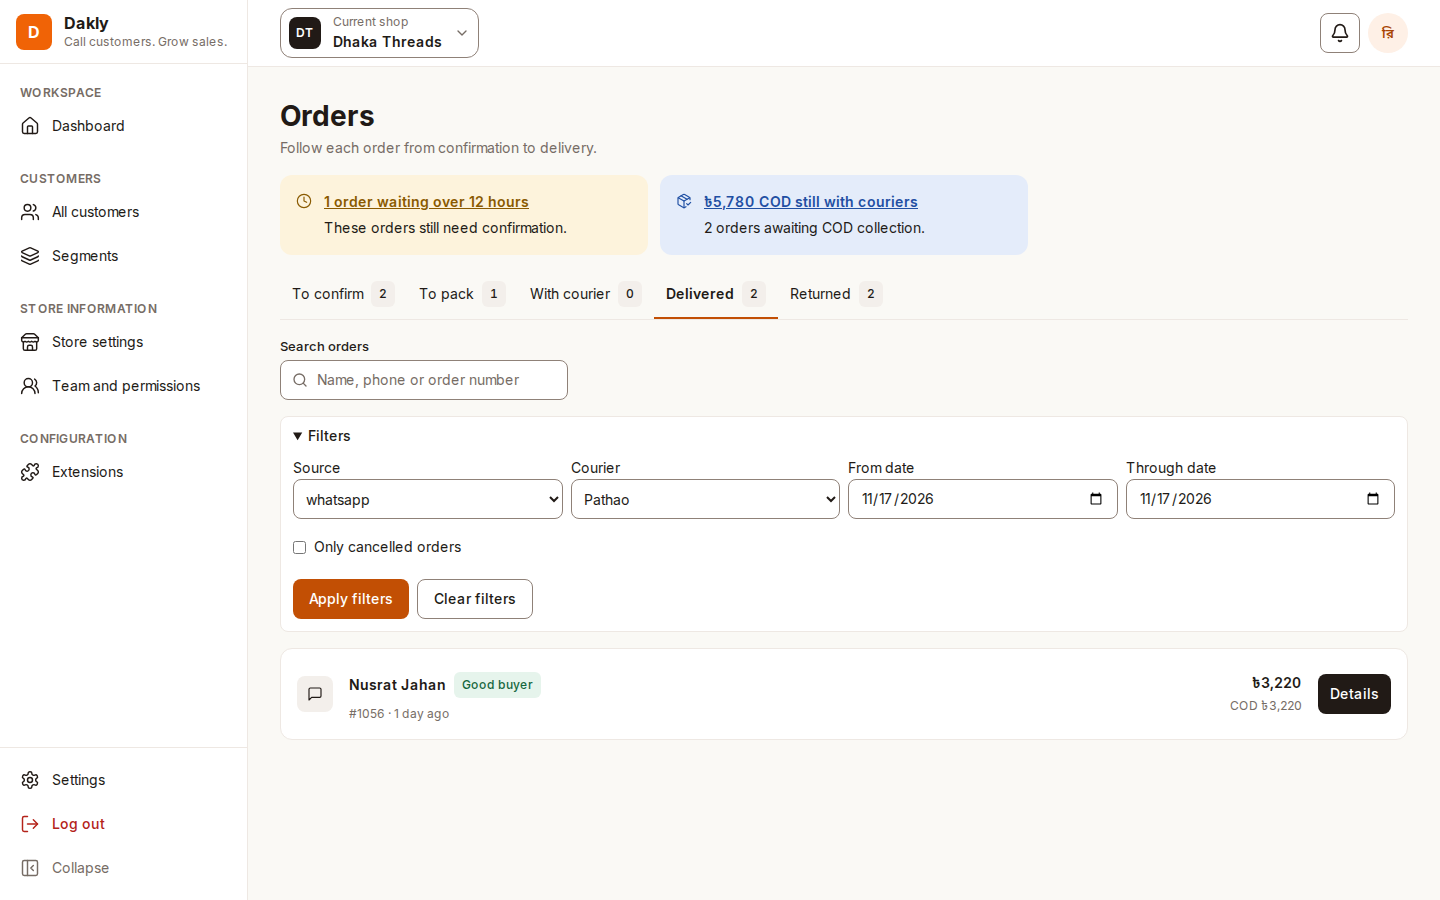
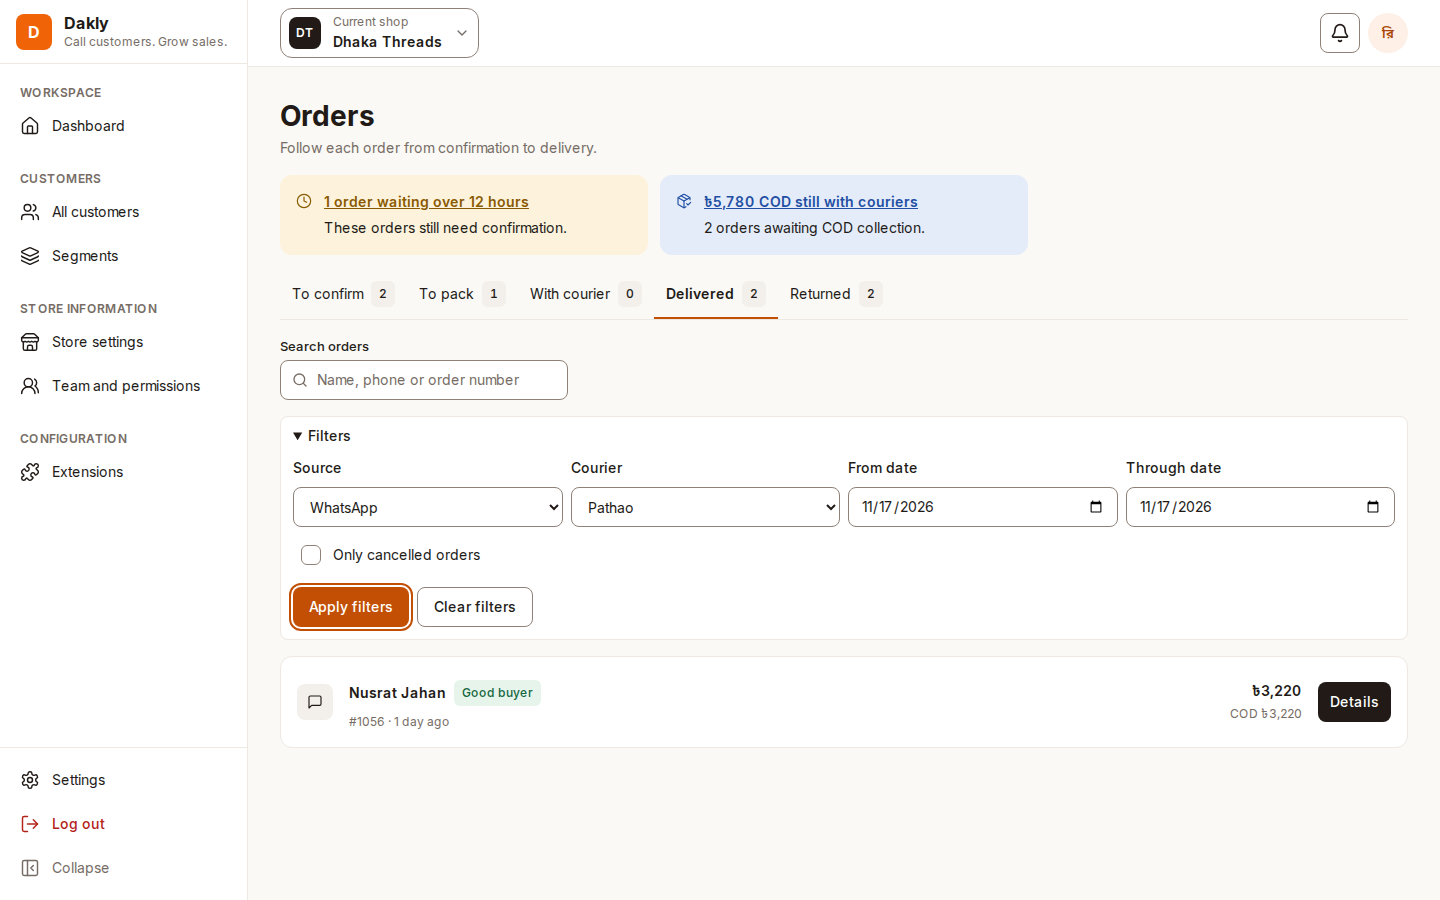
fix(ord-5): validate filters and retain keyboard focus

diff --git a/apps/web/src/features/orders/components/order-filters.tsx b/apps/web/src/features/orders/components/order-filters.tsx
@@ -1,5 +1,8 @@
+import { zodResolver } from '@hookform/resolvers/zod';
 import { useRouter } from 'next/navigation';
-import { useState, type FormEvent } from 'react';
+import { useRef, useTransition, type ReactNode } from 'react';
+import { Controller, FormProvider, useForm, useFormContext } from 'react-hook-form';
+import { z } from 'zod';
 
 import {
   couriers,
@@ -8,57 +11,88 @@ import {
   type OrderListQuery,
 } from '@dakly/contracts/orders';
 import { Button } from '@dakly/ui/button';
+import { Checkbox } from '@dakly/ui/checkbox';
+import { FormField } from '@dakly/ui/form-field';
 import { Input } from '@dakly/ui/input';
 
 import { ordersSearch } from '../api/orders';
-import { courierLabels } from '../order-labels';
+import { courierLabels, orderSourceLabels } from '../order-labels';
+
+const filterFormSchema = orderListQuerySchema.safeExtend({ onlyCancelled: z.boolean() });
+type FilterFormValues = z.input<typeof filterFormSchema>;
+type FilterFormInput = z.output<typeof filterFormSchema>;
 
 export function OrderFilters({ query }: { query: OrderListQuery }) {
-  const router = useRouter();
-  const [error, setError] = useState('');
-  const { source, courier, createdFrom, createdThrough, ...other } = query;
-  const cancelled = query.stage === 'cancelled';
-  const filter = Boolean(source || courier || createdFrom || createdThrough || cancelled);
-  const base = { ...other, stage: cancelled ? ('to_confirm' as const) : other.stage };
-
-  function submit(event: FormEvent<HTMLFormElement>) {
-    event.preventDefault();
-    const { cancelled: showCancelled, ...entries } = Object.fromEntries(
-      new FormData(event.currentTarget),
-    );
-    const parsed = orderListQuerySchema.safeParse({
-      ...base,
-      ...(showCancelled && { stage: 'cancelled', alert: undefined }),
-      ...Object.fromEntries(Object.entries(entries).filter(([, value]) => value)),
-      cursor: undefined,
-    });
-    if (!parsed.success) return setError(parsed.error.issues[0]?.message ?? 'Check the filters.');
-    setError('');
-    router.push(`/orders?${ordersSearch(parsed.data)}`);
-  }
+  const { source, courier, createdFrom, createdThrough, stage } = query;
+  const summary = useRef<HTMLElement>(null);
+  const applied = Boolean(
+    source || courier || createdFrom || createdThrough || stage === 'cancelled',
+  );
 
   return (
-    <details className="rounded-md border border-border bg-surface px-3" open={filter || undefined}>
-      <summary className="min-h-10 w-fit cursor-pointer py-2 font-medium">Filters</summary>
-      <form
-        key={ordersSearch({ source, courier, createdFrom, createdThrough, stage: query.stage })}
-        className="space-y-3 pb-3"
-        onSubmit={submit}
-      >
-        <FilterFields query={query} />
-        {error && (
-          <p role="alert" className="text-danger">
-            {error}
-          </p>
-        )}
+    <details
+      className="rounded-md border border-border bg-surface px-3"
+      open={applied || undefined}
+    >
+      <summary ref={summary} className="min-h-10 w-fit cursor-pointer py-2 font-medium">
+        Filters
+      </summary>
+      <FilterForm query={query} applied={applied} focusSummary={() => summary.current?.focus()} />
+    </details>
+  );
+}
+
+type FilterFormProps = {
+  query: OrderListQuery;
+  applied: boolean;
+  focusSummary: () => void;
+};
+
+function FilterForm({ query, applied, focusSummary }: FilterFormProps) {
+  const router = useRouter();
+  const [pending, startTransition] = useTransition();
+  const { source, courier, createdFrom, createdThrough, ...other } = query;
+  const onlyCancelled = query.stage === 'cancelled';
+  const base = {
+    ...other,
+    stage: onlyCancelled ? ('to_confirm' as const) : other.stage,
+    cursor: undefined,
+  };
+  const form = useForm<FilterFormValues, undefined, FilterFormInput>({
+    resolver: zodResolver(filterFormSchema),
+    values: { source, courier, createdFrom, createdThrough, onlyCancelled },
+  });
+  const navigate = (next: OrderListQuery) =>
+    startTransition(() => router.push(`/orders?${ordersSearch(next)}`));
+  const submit = form.handleSubmit(
+    ({ source, courier, createdFrom, createdThrough, onlyCancelled }) => {
+      if (pending) return;
+      navigate({
+        ...base,
+        source,
+        courier,
+        createdFrom,
+        createdThrough,
+        ...(onlyCancelled && { stage: 'cancelled', alert: undefined }),
+      });
+    },
+  );
+
+  return (
+    <FormProvider {...form}>
+      <form className="space-y-3 pb-3" onSubmit={submit}>
+        <FilterFields />
         <div className="flex flex-wrap gap-2">
-          <Button type="submit">Apply filters</Button>
-          {filter && (
+          <Button type="submit" aria-busy={pending} aria-disabled={pending}>
+            {pending ? 'Applying filters…' : 'Apply filters'}
+          </Button>
+          {applied && (
             <Button
               variant="secondary"
+              disabled={pending}
               onClick={() => {
-                setError('');
-                router.push(`/orders?${ordersSearch({ ...base, cursor: undefined })}`);
+                focusSummary();
+                navigate(base);
               }}
             >
               Clear filters
@@ -66,69 +100,91 @@ export function OrderFilters({ query }: { query: OrderListQuery }) {
           )}
         </div>
       </form>
-    </details>
+    </FormProvider>
   );
 }
 
-function FilterFields({ query }: { query: OrderListQuery }) {
-  const { source, courier, createdFrom, createdThrough } = query;
+function FilterFields() {
+  const { control, register } = useFormContext<FilterFormValues>();
   return (
     <div className="grid gap-2 sm:grid-cols-2 xl:grid-cols-4">
-      <OrderFilterSelect name="source" label="Source" value={source}>
+      <OrderFilterSelect name="source" label="Source">
         {orderSources.map((value) => (
           <option key={value} value={value}>
-            {value.replaceAll('_', ' ')}
+            {orderSourceLabels[value]}
           </option>
         ))}
       </OrderFilterSelect>
-      <OrderFilterSelect name="courier" label="Courier" value={courier}>
+      <OrderFilterSelect name="courier" label="Courier">
         {couriers.map((value) => (
           <option key={value} value={value}>
             {courierLabels[value]}
           </option>
         ))}
       </OrderFilterSelect>
-      <label>
-        From date <Input name="createdFrom" type="date" defaultValue={createdFrom} />
-      </label>
-      <label>
-        Through date <Input name="createdThrough" type="date" defaultValue={createdThrough} />
-      </label>
-      <label className="flex min-h-10 items-center gap-2 sm:col-span-2 xl:col-span-4">
-        <input
-          type="checkbox"
-          name="cancelled"
-          className="accent-action"
-          defaultChecked={query.stage === 'cancelled'}
-        />
-        Only cancelled orders
-      </label>
+      <FormField name="createdFrom" label="From date">
+        {(props) => (
+          <Input
+            {...props}
+            type="date"
+            {...register('createdFrom', { setValueAs: emptyAsUndefined })}
+          />
+        )}
+      </FormField>
+      <FormField name="createdThrough" label="Through date">
+        {(props) => (
+          <Input
+            {...props}
+            type="date"
+            {...register('createdThrough', { setValueAs: emptyAsUndefined })}
+          />
+        )}
+      </FormField>
+      <Controller
+        control={control}
+        name="onlyCancelled"
+        render={({ field }) => (
+          <div className="flex min-h-10 items-center gap-3 pl-2 sm:col-span-2 xl:col-span-4">
+            <Checkbox
+              id={field.name}
+              checked={field.value}
+              onCheckedChange={(value) => field.onChange(value === true)}
+              ref={field.ref}
+            />
+            <label htmlFor={field.name}>Only cancelled orders</label>
+          </div>
+        )}
+      />
     </div>
   );
+}
+
+function emptyAsUndefined(value: string) {
+  return value || undefined;
 }
 
 function OrderFilterSelect({
   name,
   label,
-  value,
   children,
 }: {
   name: 'source' | 'courier';
   label: string;
-  value?: string;
-  children: React.ReactNode;
+  children: ReactNode;
 }) {
+  const { register } = useFormContext<FilterFormValues>();
   return (
-    <label>
-      {label}
-      <select
-        name={name}
-        defaultValue={value ?? ''}
-        className="block min-h-10 w-full rounded-md border border-input-border bg-surface px-2"
-      >
-        <option value="">All</option>
-        {children}
-      </select>
-    </label>
+    <FormField name={name} label={label}>
+      {(props) => (
+        <select
+          {...props}
+          {...register(name, { setValueAs: emptyAsUndefined })}
+          className="min-h-10 w-full min-w-0 rounded-md border border-input-border bg-surface px-3 focus-visible:outline-2 focus-visible:outline-offset-2 focus-visible:outline-focus aria-invalid:border-danger"
+        >
+          <option value="">All</option>
+          {children}
+        </select>
+      )}
+    </FormField>
   );
 }

diff --git a/apps/web/e2e/orders-pipeline.spec.ts b/apps/web/e2e/orders-pipeline.spec.ts
@@ -64,6 +64,12 @@ test('filters the active shop’s pipeline by alert, search and stage', async ({
         await action.scrollIntoViewIfNeeded();
         await expect(action).toBeInViewport({ ratio: 1 });
       }
+      if (name === 'filters' && width === 360) {
+        await page.getByText('Filters', { exact: true }).evaluate((summary) => {
+          summary.scrollIntoView({ block: 'start' });
+        });
+        await expect(page.getByRole('button', { name: 'Apply filters' })).toBeInViewport();
+      }
       await page.mouse.move(width - 1, height - 1);
       await expect
         .poll(() => page.evaluate(() => document.documentElement.scrollWidth))
@@ -220,12 +226,15 @@ test('filters the active shop’s pipeline by alert, search and stage', async ({
     await expect(page.getByText('Partly delivered', { exact: true })).toBeVisible();
     await expect(page.getByText('৳2,560', { exact: true })).toBeVisible();
     await page.getByText('Filters', { exact: true }).click();
-    await page.getByRole('combobox', { name: 'Source' }).selectOption('whatsapp');
-    await page.getByRole('combobox', { name: 'Courier' }).selectOption('pathao');
+    await page.getByRole('combobox', { name: 'Source' }).selectOption({ label: 'WhatsApp' });
+    await page.getByRole('combobox', { name: 'Courier' }).selectOption({ label: 'Pathao' });
     await page.getByLabel('From date').fill('2026-11-17');
     await page.getByLabel('Through date').fill('2026-11-17');
-    await page.getByRole('button', { name: 'Apply filters' }).click();
+    const applyFilters = page.getByRole('button', { name: 'Apply filters' });
+    await applyFilters.focus();
+    await applyFilters.press('Enter');
     await expect(page).toHaveURL(/courier=pathao/);
+    await expect(applyFilters).toBeFocused();
     await expect(page.getByRole('link', { name: 'Nusrat Jahan' })).toHaveCount(1);
     await capture('filters');
     await database.pool.query(
@@ -236,6 +245,9 @@ test('filters the active shop’s pipeline by alert, search and stage', async ({
     await page.getByRole('button', { name: 'Apply filters' }).click();
     await expect(page).toHaveURL(/stage=cancelled/);
     await expect(page.getByRole('link', { name: 'Nusrat Jahan' })).toHaveCount(1);
+    await page.getByRole('button', { name: 'Clear filters' }).click();
+    await expect(page).toHaveURL(/stage=to_confirm/);
+    await expect(page.getByText('Filters', { exact: true })).toBeFocused();
   } finally {
     await database.pool.query(
       "delete from outbox_events where store_id=$1 and payload->>'orderId' = any($2::text[])",

diff --git a/apps/api/test/cross-store.int.spec.ts b/apps/api/test/cross-store.int.spec.ts
@@ -211,6 +211,10 @@ fixture('GET /orders', async () => {
     filtered.replace('source=whatsapp', 'source=manual'),
     filtered.replace('courier=pathao', 'courier=redx'),
     filtered.replaceAll('2026-11-17', '2026-11-18'),
+    filtered.replace(
+      '&createdFrom=2026-11-17&createdThrough=2026-11-17',
+      '&createdThrough=2026-11-16',
+    ),
   ]) {
     expect((await success(a, 'GET', unmatched, 200)).json().items).toEqual([]);
   }

diff --git a/docs/tasks.md b/docs/tasks.md
@@ -137,15 +137,15 @@ Core, built before channel connections with SMS as the first channel (D40), and 
 
 ## M6. Orders
 
-| ID    | Task                                                                             | Status    | Depends        | PR         | Notes                                                                                                                                                          |
-| ----- | -------------------------------------------------------------------------------- | --------- | -------------- | ---------- | -------------------------------------------------------------------------------------------------------------------------------------------------------------- |
-| ORD-1 | Orders, items, stage table, stage events, order numbers                          | Done      | PROD-2, CUS-1  | #136, #151 | Q7. Order numbers and buyer timestamp shipped in ORD-3. Archive guard rejects products in open orders.                                                         |
-| ORD-2 | Delivery zones, areas and charges                                                | Done      | ACC-3          | #122       |                                                                                                                                                                |
-| ORD-3 | Create order from chat and from staff                                            | Done      | ORD-1, ORD-2   | #139, #148 | D26/D27. Oversell override deferred. Order creation from chat comes with AI-5.                                                                                 |
-| ORD-4 | Order triggers, COD confirmation workflow template and Confirm or Cancel replies | Todo      | ORD-3, CAMP-11 |            | Was a separate confirmation sender; now runs on the workflow engine                                                                                            |
-| ORD-5 | Web: orders pipeline and order detail                                            | In review | ORD-3, WEB-2   | #144, #153 | Pipeline, then detail links and stage actions, then source/courier/date filters. Stage progress bar, Call and WhatsApp actions, and parcel return counts wait. |
-| ORD-6 | Public order link page and endpoint (Turnstile, limits)                          | Todo      | ORD-3          |            | Design needed                                                                                                                                                  |
-| ORD-9 | Manual dispatch, courier/tracking entry, delivery, returns and COD recording     | Done      | ORD-3          | #142, #150 | D21; manual dispatch, delivery, returns, COD checks and store-only return risk                                                                                 |
+| ID    | Task                                                                             | Status    | Depends        | PR         | Notes                                                                                                                                                                                                  |
+| ----- | -------------------------------------------------------------------------------- | --------- | -------------- | ---------- | ------------------------------------------------------------------------------------------------------------------------------------------------------------------------------------------------------ |
+| ORD-1 | Orders, items, stage table, stage events, order numbers                          | Done      | PROD-2, CUS-1  | #136, #151 | Q7. Order numbers and buyer timestamp shipped in ORD-3. Archive guard rejects products in open orders.                                                                                                 |
+| ORD-2 | Delivery zones, areas and charges                                                | Done      | ACC-3          | #122       |                                                                                                                                                                                                        |
+| ORD-3 | Create order from chat and from staff                                            | Done      | ORD-1, ORD-2   | #139, #148 | D26/D27. Oversell override deferred. Order creation from chat comes with AI-5.                                                                                                                         |
+| ORD-4 | Order triggers, COD confirmation workflow template and Confirm or Cancel replies | Todo      | ORD-3, CAMP-11 |            | Was a separate confirmation sender; now runs on the workflow engine                                                                                                                                    |
+| ORD-5 | Web: orders pipeline and order detail                                            | In review | ORD-3, WEB-2   | #144, #153 | Pipeline, detail and filters in separate PRs. Use Filters for cancelled orders. The order editor and stage forms follow. Stage progress bar, Call and WhatsApp actions, and parcel return counts wait. |
+| ORD-6 | Public order link page and endpoint (Turnstile, limits)                          | Todo      | ORD-3          |            | Design needed                                                                                                                                                                                          |
+| ORD-9 | Manual dispatch, courier/tracking entry, delivery, returns and COD recording     | Done      | ORD-3          | #142, #150 | D21; manual dispatch, delivery, returns, COD checks and store-only return risk                                                                                                                         |
 
 ## M7. AI layer
 
